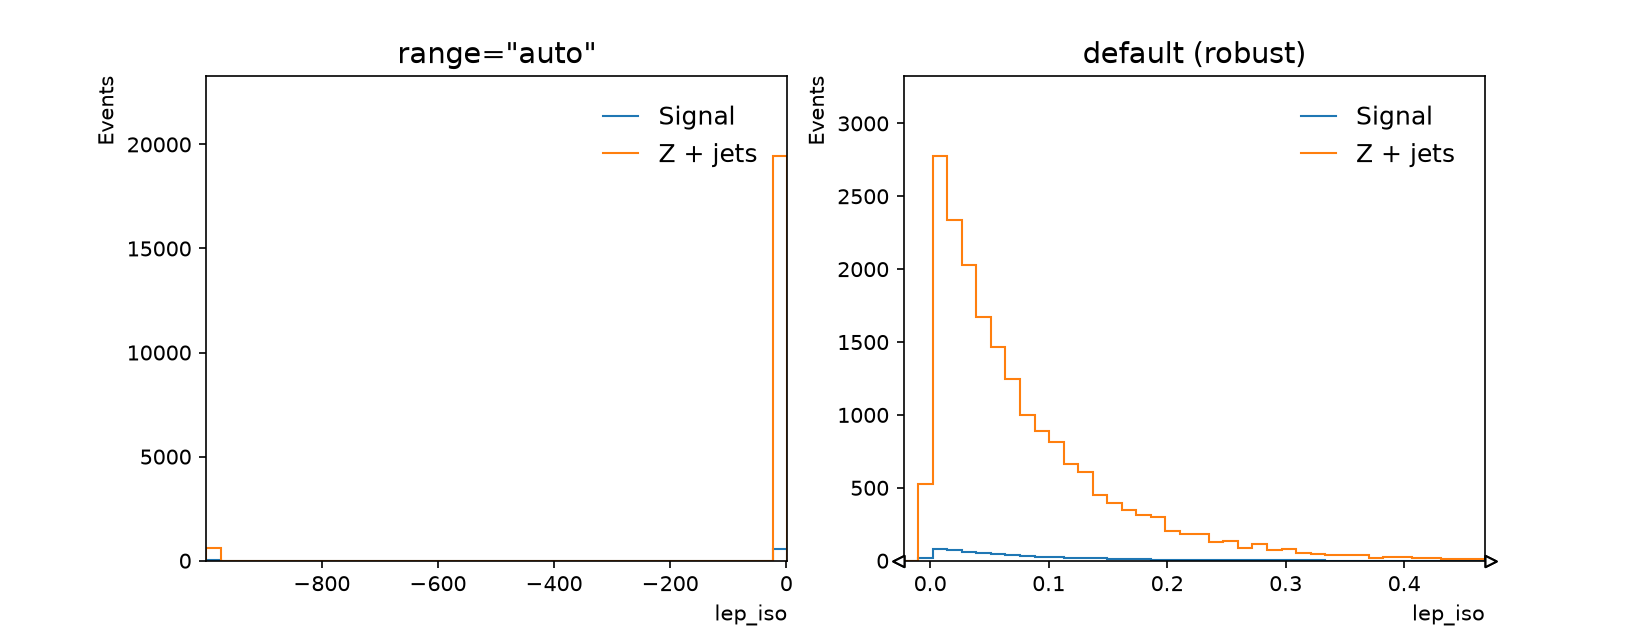
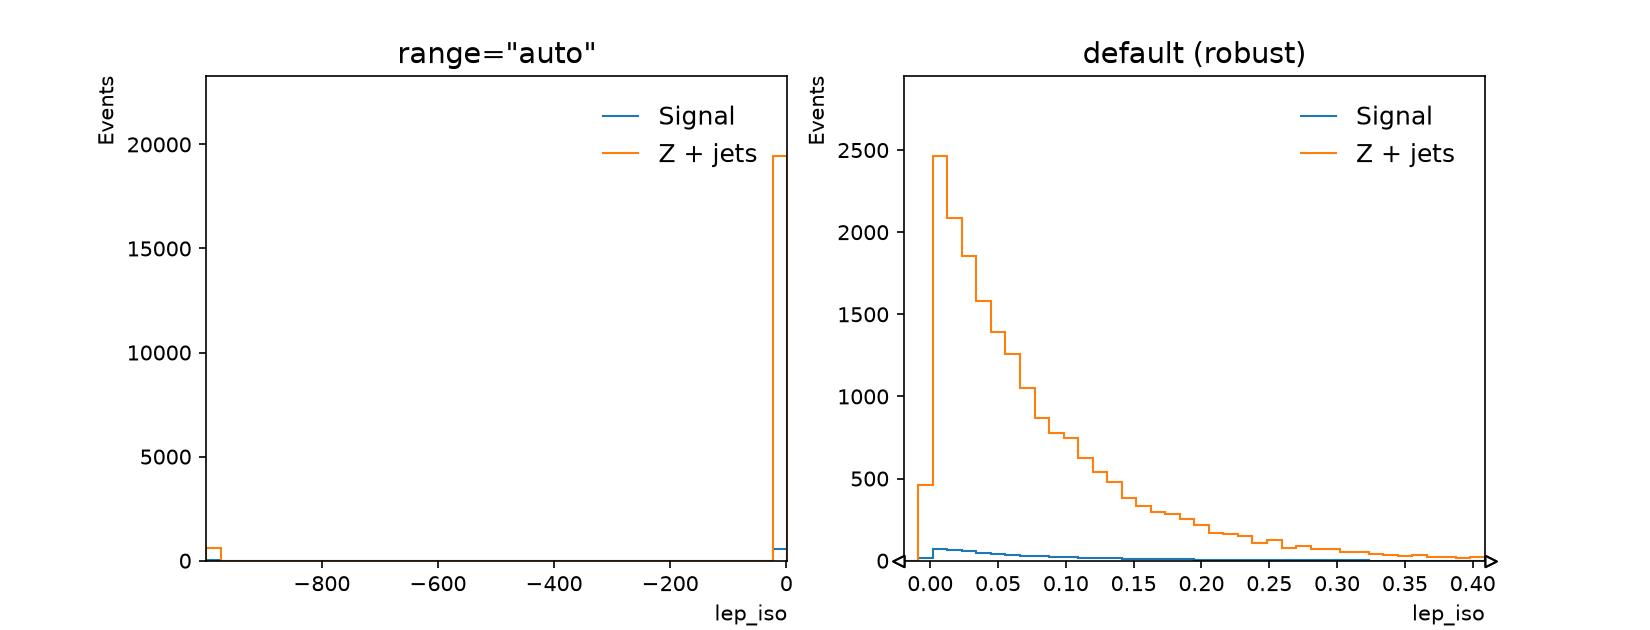
Fixes

diff --git a/src/rootfig/model/binning.py b/src/rootfig/model/binning.py
@@ -152,14 +152,18 @@ It is the widest range ``"robust"`` will produce: a sentinel far from the bulk i
 rejected here, and :data:`ROBUST_COVERAGE_BUDGET` may then tighten the result
 further, never past it."""
 
-ROBUST_COVERAGE_BUDGET = 0.005
-"""Fraction of the entries ``range="robust"`` may move out of the view to cut a tail.
+ROBUST_COVERAGE_BUDGET = 0.01
+"""Fraction of a sample ``range="robust"`` may move out of the view to cut a tail.
 
 :data:`ROBUST_THRESHOLD` measures a distance from the bulk, so a tail that reaches
 far but thins out smoothly stays inside it and leaves the interesting part of the
 distribution in a small corner of the axis. Starting from that range, the threshold
 is tightened along :data:`ROBUST_LADDER` for as long as the entries leaving the view
-stay within this budget of the entries already outside it."""
+stay within this budget of the entries already outside it.
+
+Every sample is charged for its own losses, never the pooled entries: one binning
+is shared by all samples of a plot, and a small sample far from a large one stays a
+small fraction of the pooled values however much of it is cut."""
 
 ROBUST_LADDER = (30.0, 20.0, 15.0, 12.0, 10.0, 8.0, 7.0, 6.0, 5.0, 4.0, 3.0)
 """Thresholds tried by ``range="robust"``, widest first. Tightening stops at the first
@@ -206,7 +210,7 @@ def auto_range(
     span = high - low
     high = high + (span * 1e-3 if span > 0 else 0.0)
     if mode == "robust":
-        low, high = _robust_range(combined, low, high)
+        low, high = _robust_range(finite, combined, low, high)
     if not high > low:
         width = abs(low) * 0.1 if low != 0 else 0.5
         low, high = low - width, high + width
@@ -225,25 +229,39 @@ def _padded(kept: np.ndarray, low: float, high: float) -> tuple[float, float]:
     return max(kept_low - pad, low), min(kept_high + pad, high)
 
 
-def _robust_range(values: np.ndarray, low: float, high: float) -> tuple[float, float]:
+def _outside(samples: Sequence[np.ndarray], low: float, high: float) -> np.ndarray:
+    """Fraction of each sample's values that ``(low, high)`` leaves out of the view."""
+    return np.array([float(((v < low) | (v > high)).mean()) for v in samples])
+
+
+def _robust_range(
+    samples: Sequence[np.ndarray], values: np.ndarray, low: float, high: float
+) -> tuple[float, float]:
     """Reject outliers, then cut a long tail as far as the coverage budget allows.
 
     ``(low, high)`` is the ``"auto"`` range, which bounds the result. The first
     step of :data:`ROBUST_LADDER` is :data:`ROBUST_THRESHOLD` and sets that bound;
     later steps are accepted only while they push no more than
-    :data:`ROBUST_COVERAGE_BUDGET` of the entries out of the view beyond what the
-    first step already did, and the first step that costs more ends the walk.
+    :data:`ROBUST_COVERAGE_BUDGET` out of the view beyond what the first step
+    already did, and the first step that costs more ends the walk.
+
+    The budget is spent per sample, not over the pooled values. One binning is
+    shared by every sample of a plot, and a small sample far from a large one is
+    a small *fraction* of the pooled entries however much of it is cut: measured
+    that way, a signal of a few hundred entries beside a background of a hundred
+    thousand could be moved into the overflow in its entirety and still look
+    cheap. Charging each sample for its own losses costs such a cut the whole
+    sample, so the walk stops before it.
     """
     best = _padded(_reject_outliers(values, ROBUST_LADDER[0]), low, high)
     if _distinct_values_below(values, ROBUST_DISCRETE_VALUES):
         return best
-    outside = float(((values < best[0]) | (values > best[1])).mean())
+    outside = _outside(samples, *best)
     for threshold in ROBUST_LADDER[1:]:
         candidate = _padded(_reject_outliers(values, threshold), low, high)
         if candidate[0] < best[0] or candidate[1] > best[1]:
             break  # an emptied selection falls back to every value: stop widening
-        cost = float(((values < candidate[0]) | (values > candidate[1])).mean())
-        if cost - outside > ROBUST_COVERAGE_BUDGET:
+        if np.any(_outside(samples, *candidate) - outside > ROBUST_COVERAGE_BUDGET):
             break
         best = candidate
     return best

diff --git a/tests/test_model.py b/tests/test_model.py
@@ -190,7 +190,7 @@ class TestBinning:
                     np.random.default_rng(9).normal(0, 4, 100_000),
                     np.random.default_rng(10).normal(0, 1, 100_000),
                 ),
-                (-6.9, 6.9),
+                (-5.8, 5.8),
                 id="gaussian-core-with-tails",
             ),
         ],
@@ -206,6 +206,21 @@ class TestBinning:
         assert high < full_high
         outside = float(((values < low) | (values > high)).mean())
         assert outside <= ROBUST_COVERAGE_BUDGET
+
+    @pytest.mark.parametrize("n", [100_000, 10_000, 1_000, 500, 200, 50])
+    def test_robust_range_keeps_a_small_distant_sample(self, n: int) -> None:
+        """A signal far from a large background survives however few entries it has.
+
+        The budget is charged per sample: measured against the pooled entries a
+        signal of a few hundred beside a background of a hundred thousand would be
+        under budget even when cut away completely.
+        """
+        rng = np.random.default_rng(0)
+        background = rng.exponential(60, 100_000) + 50
+        signal = rng.normal(800, 25, n)
+        low, high = auto_range([background, signal], mode="robust")
+        kept = float(((signal >= low) & (signal <= high)).mean())
+        assert kept >= 1.0 - ROBUST_COVERAGE_BUDGET
 
     def test_robust_range_keeps_categorical_values(self) -> None:
         """A rare category is a bin of its own, not empty space at the edge."""

diff --git a/docs/plotting.md b/docs/plotting.md
@@ -117,11 +117,13 @@ rf.plot("events.root", "d0_significance", bins=50, range=(-5, 5))  # explicit
 This happens in two steps. Outliers are rejected by their modified z-score
 (`0.6745 * |x - median| / MAD`), with a threshold of 30, which removes sentinels
 and anything else far from the bulk. The threshold is then tightened while no
-more than 0.5 percent of the entries leave the view, which cuts a tail that
+more than 1 percent of any one sample leaves the view, which cuts a tail that
 reaches far but thins out smoothly — the kind a distance threshold keeps and
 that leaves the interesting part of the distribution in a corner of the axis.
 A sample with fewer than 20 distinct values is categorical, has no tail to cut
-and is left at the first step. If MAD is zero, the mean absolute deviation from
+and is left at the first step. The budget is charged per sample rather than over
+the pooled entries, so a small signal sitting far from a large background keeps
+its own place on the axis instead of being cut as a rounding error. If MAD is zero, the mean absolute deviation from
 the median is used instead. Every candidate is padded by 5 percent and clamped
 to the `"auto"` range (whose upper edge is nudged above the maximum to include
 it), so the range never reaches past the data. Degenerate ranges are widened
